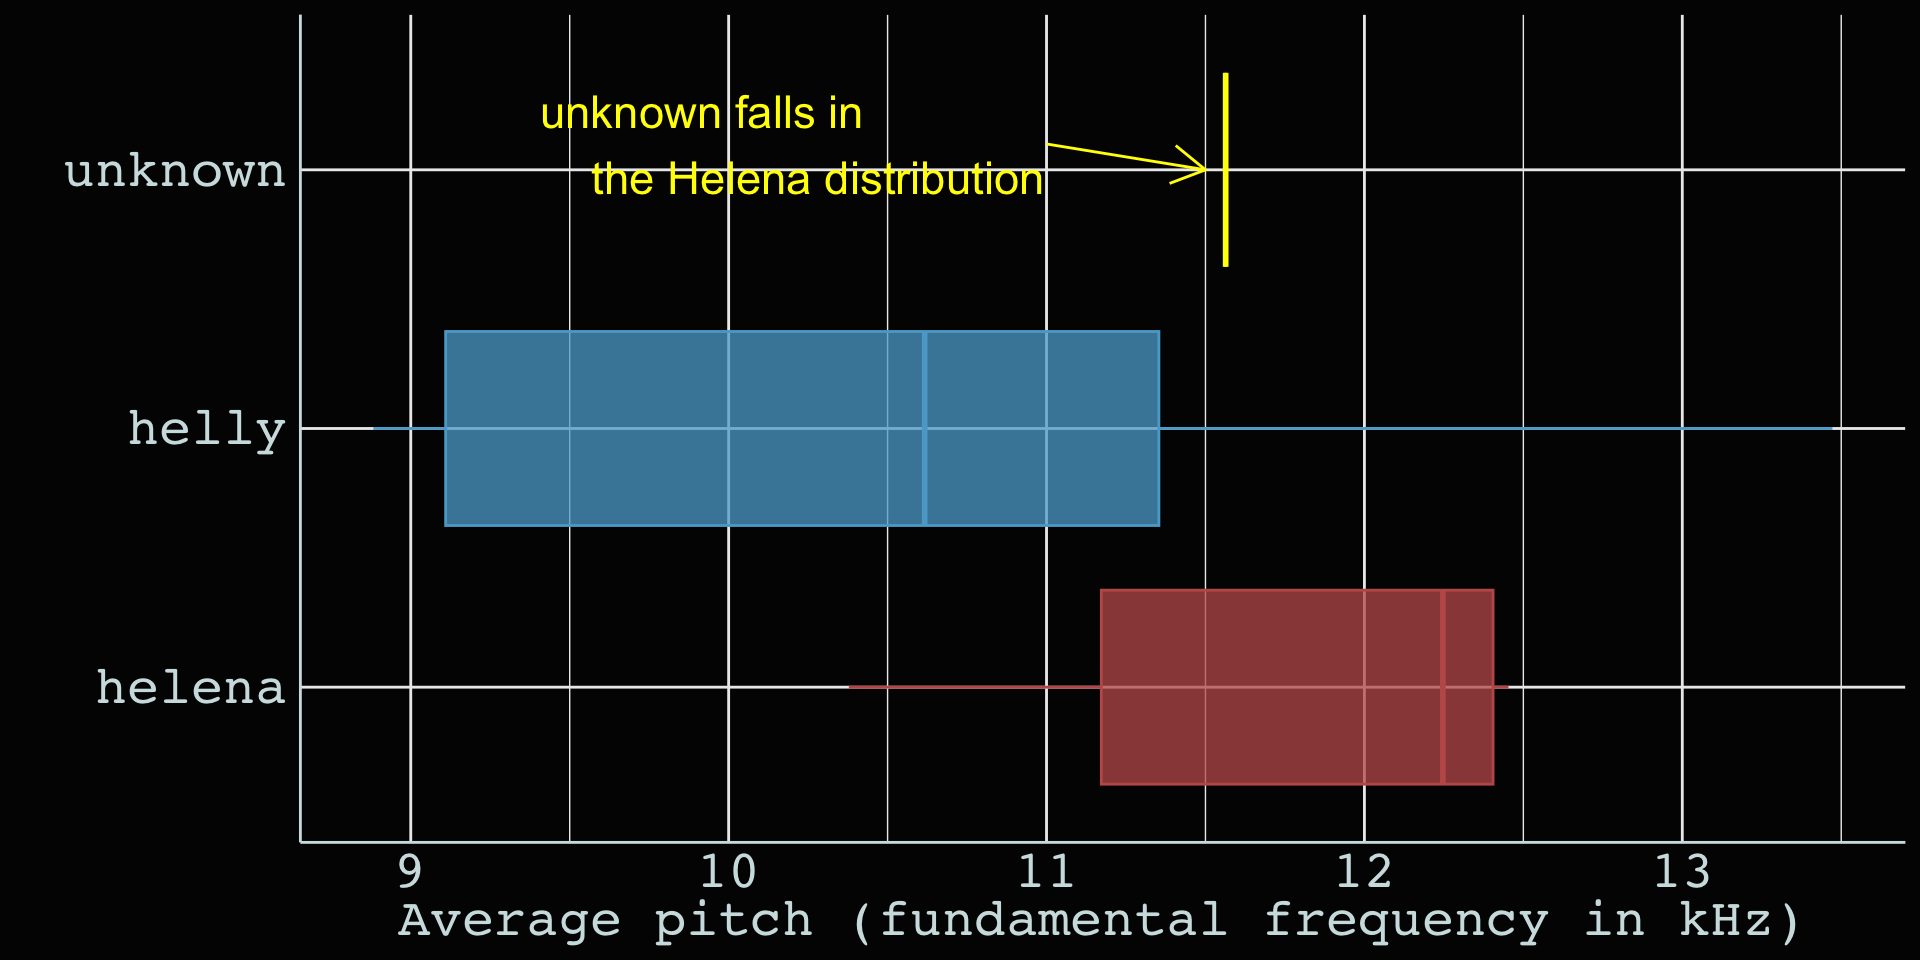
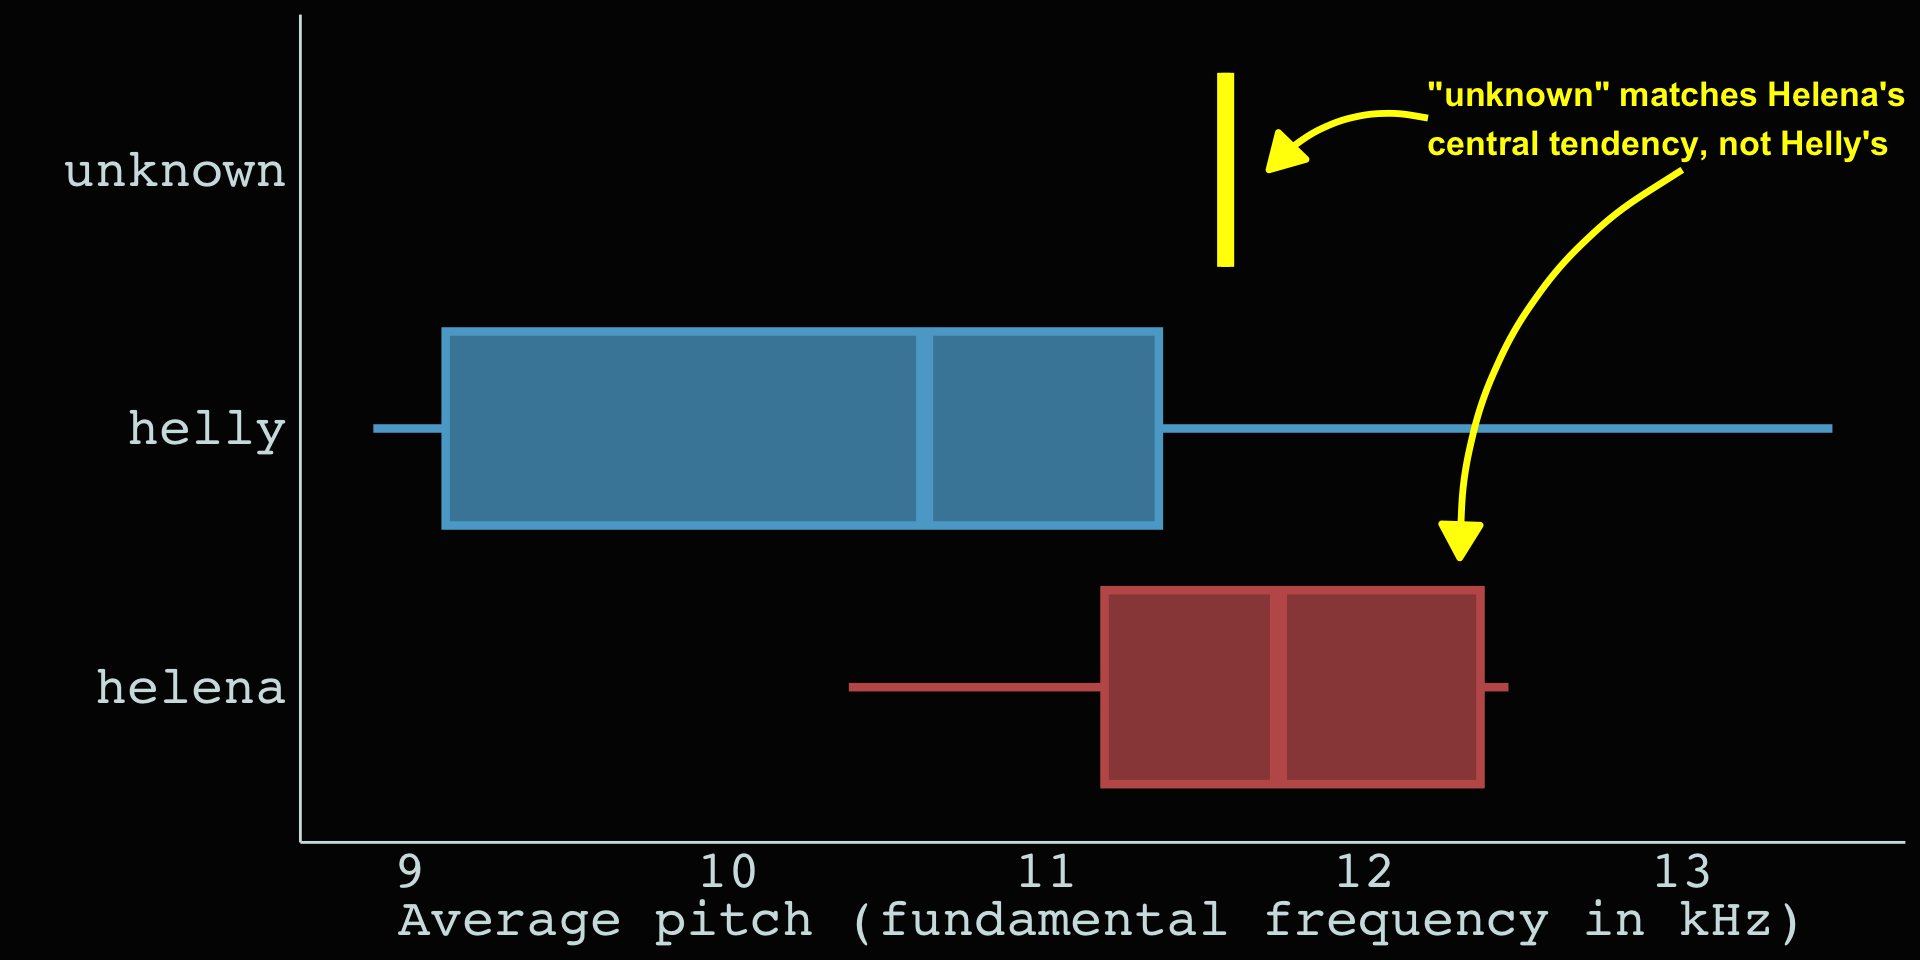
Built site for gh-pages

diff --git a/analysis-helly-voice/index.html b/analysis-helly-voice/index.html
@@ -155,10 +155,9 @@ color: white
 <span id="cb1-13"><a href="#cb1-13" aria-hidden="true" tabindex="-1"></a>  <span class="fu">filter</span>(<span class="fu">grepl</span>(<span class="st">"Helly"</span>, speaker),</span>
 <span id="cb1-14"><a href="#cb1-14" aria-hidden="true" tabindex="-1"></a>         <span class="fu">nchar</span>(dialogue) <span class="sc">&gt;</span> <span class="dv">100</span>,</span>
 <span id="cb1-15"><a href="#cb1-15" aria-hidden="true" tabindex="-1"></a>         season <span class="sc">==</span> <span class="dv">2</span>, episode <span class="sc">%in%</span> <span class="fu">c</span>(<span class="dv">1</span>, <span class="dv">4</span>)) <span class="sc">|&gt;</span></span>
-<span id="cb1-16"><a href="#cb1-16" aria-hidden="true" tabindex="-1"></a>  <span class="fu">arrange</span>(season, episode) <span class="sc">|&gt;</span></span>
-<span id="cb1-17"><a href="#cb1-17" aria-hidden="true" tabindex="-1"></a>  <span class="fu">slice</span>(<span class="dv">1</span><span class="sc">:</span><span class="dv">5</span>)</span>
-<span id="cb1-18"><a href="#cb1-18" aria-hidden="true" tabindex="-1"></a></span>
-<span id="cb1-19"><a href="#cb1-19" aria-hidden="true" tabindex="-1"></a>helly_sample</span></code><button title="Copy to Clipboard" class="code-copy-button"><i class="bi"></i></button></pre></div>
+<span id="cb1-16"><a href="#cb1-16" aria-hidden="true" tabindex="-1"></a>  <span class="fu">arrange</span>(season, episode)</span>
+<span id="cb1-17"><a href="#cb1-17" aria-hidden="true" tabindex="-1"></a></span>
+<span id="cb1-18"><a href="#cb1-18" aria-hidden="true" tabindex="-1"></a>helly_sample</span></code><button title="Copy to Clipboard" class="code-copy-button"><i class="bi"></i></button></pre></div>
 </details>
 <div class="cell-output cell-output-stdout">
 <pre><code># A tibble: 10 × 5
@@ -178,19 +177,20 @@ color: white
 </div>
 <center>
 <div class="text">
-<p>I then sampled the same from the episodes we know are Helena. After filtering to only lines of dialogue that were at least 100 characters, we ended up with 5 such samples.</p>
+<p>I then sampled the same from the episodes we know are Helena. After filtering to only lines of dialogue that were at least 100 characters, we ended up with 6 such samples.</p>
 </div>
 </center>
 <div class="cell">
 <div class="cell-output cell-output-stdout">
-<pre><code># A tibble: 5 × 5
+<pre><code># A tibble: 6 × 5
   season episode timestamp speaker dialogue                                     
    &lt;int&gt;   &lt;int&gt; &lt;time&gt;    &lt;chr&gt;   &lt;chr&gt;                                        
 1      2       1 33'06"    Helly R "Then I went outside and found a guy. He loo…
 2      2       1 36'25"    Helly R "Right. Of course. I mean, assuming she's st…
 3      2       1 36'54"    Helly R "We're not the same, actually. Us and the ou…
 4      2       4 10'36"    Helly   "\"I was not born into this world alone. The…
-5      2       4 10'55"    Helly   "\"In infancy, he was my bosom friend. But a…</code></pre>
+5      2       4 10'55"    Helly   "\"In infancy, he was my bosom friend. But a…
+6      2       4 25'21"    Helly   "You guys... He melted, right? He turned int…</code></pre>
 </div>
 </div>
 <center>
@@ -217,7 +217,7 @@ color: white
 <span id="cb4-14"><a href="#cb4-14" aria-hidden="true" tabindex="-1"></a>         <span class="at">class =</span> who)</span>
 <span id="cb4-15"><a href="#cb4-15" aria-hidden="true" tabindex="-1"></a>}</span>
 <span id="cb4-16"><a href="#cb4-16" aria-hidden="true" tabindex="-1"></a>helly_pitch <span class="ot">&lt;-</span> purrr<span class="sc">::</span><span class="fu">map_df</span>(<span class="dv">1</span><span class="sc">:</span><span class="dv">9</span>, get_avg_pitch, <span class="at">who =</span> <span class="st">"helly"</span>) </span>
-<span id="cb4-17"><a href="#cb4-17" aria-hidden="true" tabindex="-1"></a>helena_pitch <span class="ot">&lt;-</span> purrr<span class="sc">::</span><span class="fu">map_df</span>(<span class="dv">1</span><span class="sc">:</span><span class="dv">5</span>, get_avg_pitch, <span class="at">who =</span> <span class="st">"helena"</span>)</span>
+<span id="cb4-17"><a href="#cb4-17" aria-hidden="true" tabindex="-1"></a>helena_pitch <span class="ot">&lt;-</span> purrr<span class="sc">::</span><span class="fu">map_df</span>(<span class="dv">1</span><span class="sc">:</span><span class="dv">6</span>, get_avg_pitch, <span class="at">who =</span> <span class="st">"helena"</span>)</span>
 <span id="cb4-18"><a href="#cb4-18" aria-hidden="true" tabindex="-1"></a></span>
 <span id="cb4-19"><a href="#cb4-19" aria-hidden="true" tabindex="-1"></a>audio <span class="ot">&lt;-</span> <span class="fu">readWave</span>(<span class="fu">glue</span>(<span class="st">"data/q1.wav"</span>))</span>
 <span id="cb4-20"><a href="#cb4-20" aria-hidden="true" tabindex="-1"></a>pitch_values <span class="ot">&lt;-</span> <span class="fu">fund</span>(audio, <span class="at">f =</span> audio<span class="sc">@</span>samp.rate, <span class="at">from =</span> <span class="dv">0</span>, </span>
@@ -235,21 +235,34 @@ color: white
 <details class="code-fold">
 <summary>Code</summary>
 <div class="sourceCode cell-code" id="cb5"><pre class="sourceCode r code-with-copy"><code class="sourceCode r"><span id="cb5-1"><a href="#cb5-1" aria-hidden="true" tabindex="-1"></a><span class="fu">ggplot</span>(data, <span class="fu">aes</span>(<span class="at">x =</span> mean, <span class="at">y =</span> class, <span class="at">fill =</span> class, <span class="at">color =</span> class)) <span class="sc">+</span></span>
-<span id="cb5-2"><a href="#cb5-2" aria-hidden="true" tabindex="-1"></a>  <span class="fu">geom_boxplot</span>(<span class="at">alpha =</span> <span class="fl">0.75</span>) <span class="sc">+</span></span>
+<span id="cb5-2"><a href="#cb5-2" aria-hidden="true" tabindex="-1"></a>  <span class="fu">geom_boxplot</span>(<span class="at">alpha =</span> <span class="fl">0.75</span>, <span class="at">linewidth =</span> <span class="fl">1.5</span>) <span class="sc">+</span></span>
 <span id="cb5-3"><a href="#cb5-3" aria-hidden="true" tabindex="-1"></a>  <span class="fu">labs</span>(<span class="at">x =</span> <span class="st">"Average pitch (fundamental frequency in kHz)"</span>, <span class="at">y =</span> <span class="st">""</span>) <span class="sc">+</span> </span>
-<span id="cb5-4"><a href="#cb5-4" aria-hidden="true" tabindex="-1"></a>    <span class="fu">annotate</span>(<span class="st">"text"</span>, <span class="at">x =</span> <span class="dv">9</span>, <span class="at">y =</span> <span class="fl">3.1</span>, </span>
-<span id="cb5-5"><a href="#cb5-5" aria-hidden="true" tabindex="-1"></a>           <span class="at">label =</span> <span class="st">"unknown falls in</span><span class="sc">\n</span><span class="st">the Helena distribution"</span>, <span class="at">color =</span> <span class="st">"yellow"</span>, <span class="at">size =</span> <span class="dv">6</span>,</span>
-<span id="cb5-6"><a href="#cb5-6" aria-hidden="true" tabindex="-1"></a>           <span class="at">hjust =</span> <span class="sc">-</span><span class="fl">0.4</span>) <span class="sc">+</span></span>
-<span id="cb5-7"><a href="#cb5-7" aria-hidden="true" tabindex="-1"></a>  <span class="fu">annotate</span>(<span class="st">"segment"</span>, <span class="at">x =</span> <span class="dv">11</span>, <span class="at">xend =</span> <span class="fl">11.5</span>, </span>
-<span id="cb5-8"><a href="#cb5-8" aria-hidden="true" tabindex="-1"></a>           <span class="at">y =</span> <span class="fl">3.1</span>, <span class="at">yend =</span> <span class="dv">3</span>, </span>
-<span id="cb5-9"><a href="#cb5-9" aria-hidden="true" tabindex="-1"></a>           <span class="at">arrow =</span> <span class="fu">arrow</span>(<span class="at">length =</span> <span class="fu">unit</span>(<span class="fl">0.2</span>, <span class="st">"inches"</span>)), <span class="at">color =</span> <span class="st">"yellow"</span>) <span class="sc">+</span></span>
-<span id="cb5-10"><a href="#cb5-10" aria-hidden="true" tabindex="-1"></a>  <span class="fu">scale_fill_manual</span>(<span class="at">values =</span> <span class="fu">c</span>(<span class="st">"#C15C58"</span>, <span class="st">"#5BA9D0"</span>, <span class="st">"yellow"</span>)) <span class="sc">+</span> </span>
-<span id="cb5-11"><a href="#cb5-11" aria-hidden="true" tabindex="-1"></a>  <span class="fu">scale_color_manual</span>(<span class="at">values =</span> <span class="fu">c</span>(<span class="st">"#C15C58"</span>, <span class="st">"#5BA9D0"</span>, <span class="st">"yellow"</span>)) <span class="sc">+</span></span>
-<span id="cb5-12"><a href="#cb5-12" aria-hidden="true" tabindex="-1"></a>  <span class="fu">theme_mdr</span>() <span class="sc">+</span> </span>
-<span id="cb5-13"><a href="#cb5-13" aria-hidden="true" tabindex="-1"></a>  <span class="fu">theme</span>(<span class="at">legend.position =</span> <span class="st">"none"</span>,</span>
-<span id="cb5-14"><a href="#cb5-14" aria-hidden="true" tabindex="-1"></a>        <span class="at">axis.text =</span> <span class="fu">element_text</span>(<span class="at">size =</span> <span class="dv">20</span>),</span>
-<span id="cb5-15"><a href="#cb5-15" aria-hidden="true" tabindex="-1"></a>        <span class="at">axis.title =</span> <span class="fu">element_text</span>(<span class="at">size =</span> <span class="dv">20</span>))</span></code><button title="Copy to Clipboard" class="code-copy-button"><i class="bi"></i></button></pre></div>
+<span id="cb5-4"><a href="#cb5-4" aria-hidden="true" tabindex="-1"></a>  <span class="fu">annotate</span>(<span class="st">"text"</span>, <span class="at">x =</span> <span class="fl">12.2</span>, <span class="at">y =</span> <span class="fl">3.2</span>, </span>
+<span id="cb5-5"><a href="#cb5-5" aria-hidden="true" tabindex="-1"></a>           <span class="at">label =</span> <span class="st">"</span><span class="sc">\"</span><span class="st">unknown</span><span class="sc">\"</span><span class="st"> matches Helena's</span><span class="sc">\n</span><span class="st">central tendency, not Helly's"</span>, </span>
+<span id="cb5-6"><a href="#cb5-6" aria-hidden="true" tabindex="-1"></a>           <span class="at">color =</span> <span class="st">"yellow"</span>, <span class="at">size =</span> <span class="fl">4.5</span>,</span>
+<span id="cb5-7"><a href="#cb5-7" aria-hidden="true" tabindex="-1"></a>           <span class="at">fontface =</span> <span class="st">"bold"</span>, <span class="at">hjust =</span> <span class="dv">0</span>) <span class="sc">+</span></span>
+<span id="cb5-8"><a href="#cb5-8" aria-hidden="true" tabindex="-1"></a>  <span class="fu">annotate</span>(<span class="st">"curve"</span>, <span class="at">x =</span> <span class="fl">12.2</span>, <span class="at">xend =</span> <span class="fl">11.7</span>, </span>
+<span id="cb5-9"><a href="#cb5-9" aria-hidden="true" tabindex="-1"></a>           <span class="at">y =</span> <span class="fl">3.2</span>, <span class="at">yend =</span> <span class="dv">3</span>, </span>
+<span id="cb5-10"><a href="#cb5-10" aria-hidden="true" tabindex="-1"></a>           <span class="at">curvature =</span> <span class="fl">0.3</span>,</span>
+<span id="cb5-11"><a href="#cb5-11" aria-hidden="true" tabindex="-1"></a>           <span class="at">arrow =</span> <span class="fu">arrow</span>(<span class="at">length =</span> <span class="fu">unit</span>(<span class="fl">0.2</span>, <span class="st">"inches"</span>), <span class="at">type =</span> <span class="st">"closed"</span>), </span>
+<span id="cb5-12"><a href="#cb5-12" aria-hidden="true" tabindex="-1"></a>           <span class="at">color =</span> <span class="st">"yellow"</span>, <span class="at">size =</span> <span class="fl">1.2</span>) <span class="sc">+</span></span>
+<span id="cb5-13"><a href="#cb5-13" aria-hidden="true" tabindex="-1"></a>  <span class="fu">annotate</span>(<span class="st">"curve"</span>, <span class="at">x =</span> <span class="dv">13</span>, <span class="at">xend =</span> <span class="fl">12.3</span>, </span>
+<span id="cb5-14"><a href="#cb5-14" aria-hidden="true" tabindex="-1"></a>           <span class="at">y =</span> <span class="dv">3</span>, <span class="at">yend =</span> <span class="fl">1.5</span>, </span>
+<span id="cb5-15"><a href="#cb5-15" aria-hidden="true" tabindex="-1"></a>           <span class="at">curvature =</span> <span class="fl">0.3</span>,</span>
+<span id="cb5-16"><a href="#cb5-16" aria-hidden="true" tabindex="-1"></a>           <span class="at">arrow =</span> <span class="fu">arrow</span>(<span class="at">length =</span> <span class="fu">unit</span>(<span class="fl">0.2</span>, <span class="st">"inches"</span>), <span class="at">type =</span> <span class="st">"closed"</span>), </span>
+<span id="cb5-17"><a href="#cb5-17" aria-hidden="true" tabindex="-1"></a>           <span class="at">color =</span> <span class="st">"yellow"</span>, <span class="at">size =</span> <span class="fl">1.2</span>) <span class="sc">+</span></span>
+<span id="cb5-18"><a href="#cb5-18" aria-hidden="true" tabindex="-1"></a>  <span class="fu">scale_fill_manual</span>(<span class="at">values =</span> <span class="fu">c</span>(<span class="st">"#C15C58"</span>, <span class="st">"#5BA9D0"</span>, <span class="st">"yellow"</span>)) <span class="sc">+</span> </span>
+<span id="cb5-19"><a href="#cb5-19" aria-hidden="true" tabindex="-1"></a>  <span class="fu">scale_color_manual</span>(<span class="at">values =</span> <span class="fu">c</span>(<span class="st">"#C15C58"</span>, <span class="st">"#5BA9D0"</span>, <span class="st">"yellow"</span>)) <span class="sc">+</span></span>
+<span id="cb5-20"><a href="#cb5-20" aria-hidden="true" tabindex="-1"></a>  <span class="fu">theme_mdr</span>() <span class="sc">+</span> </span>
+<span id="cb5-21"><a href="#cb5-21" aria-hidden="true" tabindex="-1"></a>  <span class="fu">theme</span>(<span class="at">legend.position =</span> <span class="st">"none"</span>,</span>
+<span id="cb5-22"><a href="#cb5-22" aria-hidden="true" tabindex="-1"></a>        <span class="at">axis.text =</span> <span class="fu">element_text</span>(<span class="at">size =</span> <span class="dv">20</span>),</span>
+<span id="cb5-23"><a href="#cb5-23" aria-hidden="true" tabindex="-1"></a>        <span class="at">axis.title =</span> <span class="fu">element_text</span>(<span class="at">size =</span> <span class="dv">20</span>),</span>
+<span id="cb5-24"><a href="#cb5-24" aria-hidden="true" tabindex="-1"></a>        <span class="at">panel.grid =</span> <span class="fu">element_blank</span>())</span></code><button title="Copy to Clipboard" class="code-copy-button"><i class="bi"></i></button></pre></div>
 </details>
+<div class="cell-output cell-output-stderr">
+<pre><code>Warning: Using `size` aesthetic for lines was deprecated in ggplot2 3.4.0.
+ℹ Please use `linewidth` instead.</code></pre>
+</div>
 <div class="cell-output-display">
 <div class="quarto-figure quarto-figure-center">
 <figure class="figure">
@@ -264,21 +277,21 @@ color: white
 </div>
 </center>
 <div class="cell">
-<div class="sourceCode cell-code" id="cb6"><pre class="sourceCode r code-with-copy"><code class="sourceCode r"><span id="cb6-1"><a href="#cb6-1" aria-hidden="true" tabindex="-1"></a>train_data <span class="ot">&lt;-</span> data <span class="sc">|&gt;</span></span>
-<span id="cb6-2"><a href="#cb6-2" aria-hidden="true" tabindex="-1"></a>  <span class="fu">filter</span>(class <span class="sc">!=</span> <span class="st">"unknown"</span>)</span>
-<span id="cb6-3"><a href="#cb6-3" aria-hidden="true" tabindex="-1"></a></span>
-<span id="cb6-4"><a href="#cb6-4" aria-hidden="true" tabindex="-1"></a>train_class <span class="ot">&lt;-</span> train_data<span class="sc">$</span>class</span>
-<span id="cb6-5"><a href="#cb6-5" aria-hidden="true" tabindex="-1"></a></span>
-<span id="cb6-6"><a href="#cb6-6" aria-hidden="true" tabindex="-1"></a>train_data <span class="ot">&lt;-</span> train_data <span class="sc">|&gt;</span></span>
-<span id="cb6-7"><a href="#cb6-7" aria-hidden="true" tabindex="-1"></a>  <span class="fu">select</span>(<span class="sc">-</span>class)</span>
-<span id="cb6-8"><a href="#cb6-8" aria-hidden="true" tabindex="-1"></a></span>
-<span id="cb6-9"><a href="#cb6-9" aria-hidden="true" tabindex="-1"></a>unknown_data <span class="ot">&lt;-</span> data <span class="sc">|&gt;</span> </span>
-<span id="cb6-10"><a href="#cb6-10" aria-hidden="true" tabindex="-1"></a>  <span class="fu">filter</span>(class <span class="sc">==</span> <span class="st">"unknown"</span>) <span class="sc">|&gt;</span></span>
-<span id="cb6-11"><a href="#cb6-11" aria-hidden="true" tabindex="-1"></a>  <span class="fu">select</span>(<span class="sc">-</span>class)</span>
-<span id="cb6-12"><a href="#cb6-12" aria-hidden="true" tabindex="-1"></a></span>
-<span id="cb6-13"><a href="#cb6-13" aria-hidden="true" tabindex="-1"></a>class<span class="sc">::</span><span class="fu">knn</span>(<span class="at">train =</span> train_data, </span>
-<span id="cb6-14"><a href="#cb6-14" aria-hidden="true" tabindex="-1"></a>           <span class="at">test =</span> unknown_data, </span>
-<span id="cb6-15"><a href="#cb6-15" aria-hidden="true" tabindex="-1"></a>           <span class="at">cl =</span> train_class, <span class="at">k =</span> <span class="dv">3</span>)</span></code><button title="Copy to Clipboard" class="code-copy-button"><i class="bi"></i></button></pre></div>
+<div class="sourceCode cell-code" id="cb7"><pre class="sourceCode r code-with-copy"><code class="sourceCode r"><span id="cb7-1"><a href="#cb7-1" aria-hidden="true" tabindex="-1"></a>train_data <span class="ot">&lt;-</span> data <span class="sc">|&gt;</span></span>
+<span id="cb7-2"><a href="#cb7-2" aria-hidden="true" tabindex="-1"></a>  <span class="fu">filter</span>(class <span class="sc">!=</span> <span class="st">"unknown"</span>)</span>
+<span id="cb7-3"><a href="#cb7-3" aria-hidden="true" tabindex="-1"></a></span>
+<span id="cb7-4"><a href="#cb7-4" aria-hidden="true" tabindex="-1"></a>train_class <span class="ot">&lt;-</span> train_data<span class="sc">$</span>class</span>
+<span id="cb7-5"><a href="#cb7-5" aria-hidden="true" tabindex="-1"></a></span>
+<span id="cb7-6"><a href="#cb7-6" aria-hidden="true" tabindex="-1"></a>train_data <span class="ot">&lt;-</span> train_data <span class="sc">|&gt;</span></span>
+<span id="cb7-7"><a href="#cb7-7" aria-hidden="true" tabindex="-1"></a>  <span class="fu">select</span>(<span class="sc">-</span>class)</span>
+<span id="cb7-8"><a href="#cb7-8" aria-hidden="true" tabindex="-1"></a></span>
+<span id="cb7-9"><a href="#cb7-9" aria-hidden="true" tabindex="-1"></a>unknown_data <span class="ot">&lt;-</span> data <span class="sc">|&gt;</span> </span>
+<span id="cb7-10"><a href="#cb7-10" aria-hidden="true" tabindex="-1"></a>  <span class="fu">filter</span>(class <span class="sc">==</span> <span class="st">"unknown"</span>) <span class="sc">|&gt;</span></span>
+<span id="cb7-11"><a href="#cb7-11" aria-hidden="true" tabindex="-1"></a>  <span class="fu">select</span>(<span class="sc">-</span>class)</span>
+<span id="cb7-12"><a href="#cb7-12" aria-hidden="true" tabindex="-1"></a></span>
+<span id="cb7-13"><a href="#cb7-13" aria-hidden="true" tabindex="-1"></a>class<span class="sc">::</span><span class="fu">knn</span>(<span class="at">train =</span> train_data, </span>
+<span id="cb7-14"><a href="#cb7-14" aria-hidden="true" tabindex="-1"></a>           <span class="at">test =</span> unknown_data, </span>
+<span id="cb7-15"><a href="#cb7-15" aria-hidden="true" tabindex="-1"></a>           <span class="at">cl =</span> train_class, <span class="at">k =</span> <span class="dv">3</span>)</span></code><button title="Copy to Clipboard" class="code-copy-button"><i class="bi"></i></button></pre></div>
 <div class="cell-output cell-output-stdout">
 <pre><code>[1] helena
 Levels: helena helly</code></pre>
